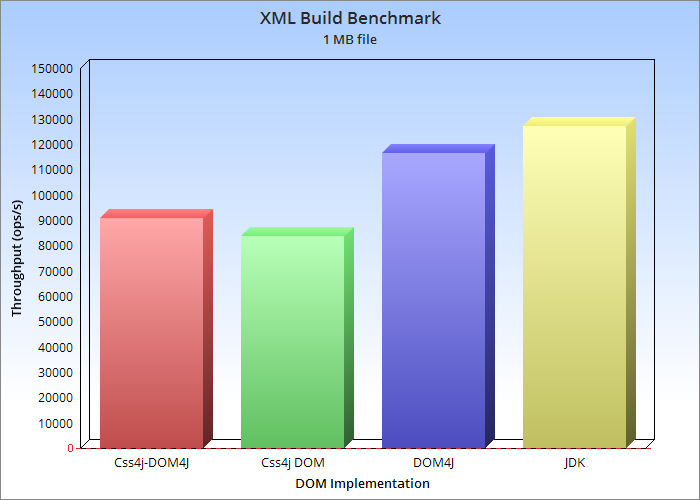
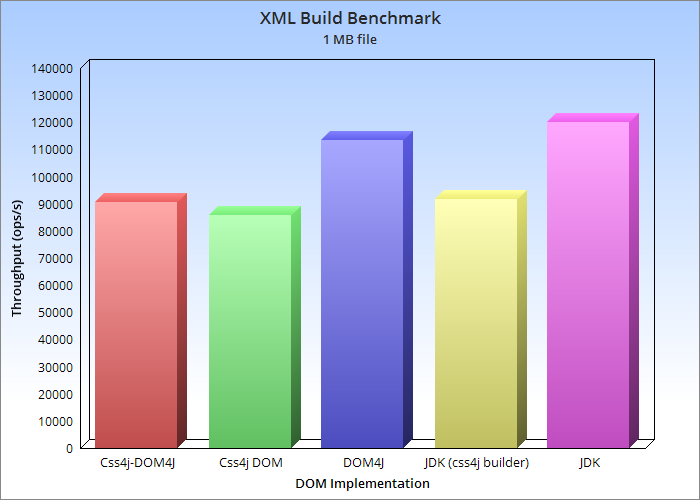
Update DOM benchmarks.

diff --git a/dom-mark.html b/dom-mark.html
@@ -31,13 +31,23 @@
 <h1>DOM benchmarks</h1>
 <div class="tema" id="overview">
 <h2>Overview</h2>
-<p>The DOM benchmarks measure how fast different DOM implementations are when building documents. The following software versions were used:</p>
+<p>The DOM benchmarks measure how fast different DOM implementations are when building and traversing documents:</p>
+<ul>
+<li><a href="https://github.com/css4j/css4j-dom4j">Css4j-DOM4J</a> module (which subclasses DOM4J).</li>
+<li><a href="https://css4j.github.io/api/3/io/sf/carte/doc/dom/package-summary.html">Css4j's native DOM</a>.</li>
+<li>Stand-alone <a href="https://dom4j.github.io/">DOM4J</a>.</li>
+<li>JDK's bundled <a href="https://docs.oracle.com/en/java/javase/11/docs/api/java.xml/org/w3c/dom/DOMImplementation.html">DOM implementation</a>.</li>
+</ul>
+<div class="subtema">
+<p>The following software versions were used:</p>
 <ul>
 <li>Java: <a href="https://adoptopenjdk.net/">AdoptOpenJDK</a>* 15.</li>
 <li>JMH: 1.26.</li>
 <li>css4j: 3.2 (pre-release).</li>
 <li>validator.nu htmlparser: <a href="https://search.maven.org/artifact/nu.validator/htmlparser">1.4.16</a>.</li>
+<li>dom4j: 2.1.3.</li>
 </ul>
+</div>
 <p>The computer has an Intel® Core™ i5-1035G7 CPU and 8GB of RAM.</p>
 <p class="note">(*) Note: one of the tested DOM implementations is the one that comes bundled with the JDK (identified as "JDK" in the graphics), and it has been observed
 that the version shipped with the Oracle JDK may be faster.</p>
@@ -53,7 +63,8 @@ that the version shipped with the Oracle JDK may be faster.</p>
 <tr><td>Css4j DOM</td><td class="number">328,637</td><td class="number">±1,920</td><td>ops/s</td></tr>
 <tr><td>JDK</td><td class="number">333,742</td><td class="number">±3,079</td><td>ops/s</td></tr>
 </table>
-<p>If one looks at the error figures, the three implementations are somewhat even in this test.</p>
+<p>If one looks at the error figures, the three implementations are somewhat even in this test. Plain DOM4J is not included in the benchmark,
+as it cannot be used with <code>HtmlDocumentBuilder</code>.</p>
 </div>
 <div class="tema" id="xml-small-mark">
 <h2>Build small XML documents</h2>
@@ -62,10 +73,11 @@ that the version shipped with the Oracle JDK may be faster.</p>
 <p>Numeric results (higher is better):</p>
 <table class="normaltbl">
 <tr><th>Implementation</th><th>Score</th><th>Error</th><th>Unit</th></tr>
-<tr><td>Css4j-DOM4J</td><td class="number">478,464</td><td class="number">±2,842</td><td>ops/s</td></tr>
-<tr><td>Css4j DOM</td><td class="number">453,009</td><td class="number">±5,765</td><td>ops/s</td></tr>
-<tr><td>DOM4J</td><td class="number">511,700</td><td class="number">±3,038</td><td>ops/s</td></tr>
-<tr><td>JDK</td><td class="number">512,558</td><td class="number">±4,976</td><td>ops/s</td></tr>
+<tr><td>Css4j-DOM4J</td><td class="number">505,418</td><td class="number">±20,569</td><td>ops/s</td></tr>
+<tr><td>Css4j DOM</td><td class="number">486,341</td><td class="number">±5,949</td><td>ops/s</td></tr>
+<tr><td>DOM4J</td><td class="number">547,620</td><td class="number">±12,901</td><td>ops/s</td></tr>
+<tr><td>JDK (XMLDocumentBuilder)</td><td class="number">530,703</td><td class="number">±7,089</td><td>ops/s</td></tr>
+<tr><td>JDK</td><td class="number">542,871</td><td class="number">±12,360</td><td>ops/s</td></tr>
 </table>
 </div>
 <div class="tema" id="xml-mark">
@@ -76,14 +88,122 @@ that the version shipped with the Oracle JDK may be faster.</p>
 <table class="normaltbl">
 <tr><th>Implementation</th><th>Score</th><th>Error</th><th>Unit</th></tr>
 <tr><td>Css4j-DOM4J</td><td class="number">90,796</td><td class="number">±1,193</td><td>ops/s</td></tr>
-<tr><td>Css4j DOM</td><td class="number">83,717</td><td class="number">±0,746</td><td>ops/s</td></tr>
-<tr><td>DOM4J</td><td class="number">116,575</td><td class="number">±0,682</td><td>ops/s</td></tr>
-<tr><td>JDK</td><td class="number">126,955</td><td class="number">±0,857</td><td>ops/s</td></tr>
+<tr><td>Css4j DOM</td><td class="number">85,990</td><td class="number">±0,764</td><td>ops/s</td></tr>
+<tr><td>DOM4J</td><td class="number">113,444</td><td class="number">±0,504</td><td>ops/s</td></tr>
+<tr><td>JDK (XMLDocumentBuilder)</td><td class="number">91,828</td><td class="number">±1,119</td><td>ops/s</td></tr>
+<tr><td>JDK</td><td class="number">120,095</td><td class="number">±0,846</td><td>ops/s</td></tr>
+</table>
+</div>
+<div class="tema" id="traverse-next">
+<h2>DOM traversal: <code>getFirstChild()/getNextSibling()</code></h2>
+<p>Count the nodes of an XML document, using a combination of <code><a href="https://docs.oracle.com/en/java/javase/11/docs/api/java.xml/org/w3c/dom/Node.html#getFirstChild()">getFirstChild()</a>/<a href="https://docs.oracle.com/en/java/javase/11/docs/api/java.xml/org/w3c/dom/Node.html#getNextSibling()">getNextSibling()</a></code> to traverse it.</p>
+<img src="benchmark/traversal-next.png" alt="DOM traversal benchmark 1" />
+<p>Numeric results (higher is better):</p>
+<table class="normaltbl">
+<tr><th>Implementation</th><th>Score</th><th>Error</th><th>Unit</th></tr>
+<tr><td>Css4j-DOM4J</td><td class="number">238,888</td><td class="number">±14,212</td><td>ops/s</td></tr>
+<tr><td>Css4j DOM</td><td class="number">3098,809</td><td class="number">±48,866</td><td>ops/s</td></tr>
+<tr><td>JDK</td><td class="number">6193,611</td><td class="number">±44,107</td><td>ops/s</td></tr>
+</table>
+<p><em>Note:</em> for unknown reasons, the usual procedure to build the JDK document with a <code>DocumentBuilderFactory</code> could not be used to initialize the document
+traversed in the benchmark, as that document is somehow left in an inconsistent state with no child nodes; this happened with the initialization code being executed in a
+<code>Scope.Benchmark</code> class and also when in a <code>static</code> initialization block. When that same code is executed in a JUnit test, the problem is not seen.</p>
+<p>Because of this reason the JDK DOM document was built with css4j's <a href="https://css4j.github.io/api/3/io/sf/carte/doc/dom/XMLDocumentBuilder.html"><code>XMLDocumentBuilder</code></a>,
+although that process is not part of the timed benchmark.</p>
+</div>
+<div class="tema" id="traverse-prev">
+<h2>DOM traversal: <code>getLastChild()/getPreviousSibling()</code></h2>
+<p>Count the nodes of an XML document, using a combination of <code><a href="https://docs.oracle.com/en/java/javase/11/docs/api/java.xml/org/w3c/dom/Node.html#getLastChild()">getLastChild()</a>/<a href="https://docs.oracle.com/en/java/javase/11/docs/api/java.xml/org/w3c/dom/Node.html#getPreviousSibling()">getPreviousSibling()</a></code> to traverse it.</p>
+<img src="benchmark/traversal-prev.png" alt="DOM traversal benchmark 2" />
+<p>Numeric results (higher is better):</p>
+<table class="normaltbl">
+<tr><th>Implementation</th><th>Score</th><th>Error</th><th>Unit</th></tr>
+<tr><td>Css4j-DOM4J</td><td class="number">208,244</td><td class="number">±48,552</td><td>ops/s</td></tr>
+<tr><td>Css4j DOM</td><td class="number">2951,919</td><td class="number">±241,858</td><td>ops/s</td></tr>
+<tr><td>JDK</td><td class="number">6717,898</td><td class="number">±92,711</td><td>ops/s</td></tr>
+</table>
+<p>The Css4j-DOM4J results are representative for DOM4J as well.</p>
+</div>
+<div class="tema" id="nodeiterator">
+<h2>DOM traversal: <code>NodeIterator</code></h2>
+<p>Count the elements of an XML document traversed by a <a href="https://docs.oracle.com/en/java/javase/11/docs/api/java.xml/org/w3c/dom/traversal/NodeIterator.html"><code>NodeIterator</code></a>.</p>
+<img src="benchmark/nodeiterator.png" alt="DOM node iterator" />
+<p>Numeric results (higher is better):</p>
+<table class="normaltbl">
+<tr><th>Implementation</th><th>Score</th><th>Error</th><th>Unit</th></tr>
+<tr><td>Css4j DOM</td><td class="number">2241,289</td><td class="number">±47,954</td><td>ops/s</td></tr>
+<tr><td>JDK</td><td class="number">4564,023</td><td class="number">±123,393</td><td>ops/s</td></tr>
+</table>
+<p>DOM4J is not included as it lacks a <code>NodeIterator</code>.</p>
+<p><em>Note:</em> sometimes the <code>NodeIterator</code> created by the JDK is in an inconsistent state, and fails with an exception like:</p>
+<pre class="code"># Warmup Iteration   1: <failure>
+
+java.lang.ArrayIndexOutOfBoundsException: Index 34 out of bounds for length 33
+        at java.base/java.util.ArrayList.add(ArrayList.java:455)
+        at java.base/java.util.ArrayList.add(ArrayList.java:467)
+        at java.xml/com.sun.org.apache.xerces.internal.dom.DocumentImpl.createNodeIterator(DocumentImpl.java:255)
+        at io.sf.carte.doc.style.css.mark.DOMTraverseMark.markNodeIteratorJdk(DOMTraverseMark.java:122)
+</pre>
+<p>But I have observed this only while benchmarking, and not in other cases.</p>
+</div>
+<div class="tema" id="treewalker">
+<h2>DOM traversal: <code>TreeWalker</code></h2>
+<p>Count the elements of an XML document traversed by a <a href="https://docs.oracle.com/en/java/javase/11/docs/api/java.xml/org/w3c/dom/traversal/TreeWalker.html"><code>TreeWalker</code></a>.</p>
+<img src="benchmark/treewalker.png" alt="DOM tree walker" />
+<p>Numeric results (higher is better):</p>
+<table class="normaltbl">
+<tr><th>Implementation</th><th>Score</th><th>Error</th><th>Unit</th></tr>
+<tr><td>Css4j DOM</td><td class="number">2229,978</td><td class="number">±44,438</td><td>ops/s</td></tr>
+<tr><td>JDK</td><td class="number">4662,251</td><td class="number">±95,975</td><td>ops/s</td></tr>
+</table>
+<p>DOM4J provides no <code>TreeWalker</code>.</p>
+</div>
+<div class="tema" id="element-iterator">
+<h2>DOM traversal: <code>elementIterator()</code></h2>
+<p>Traverse an XML document using native DOM's <a href="https://css4j.github.io/api/3/io/sf/carte/doc/dom/ParentNode.html#elementIterator()"><code>elementIterator()</code></a>
+and DOM4J's <a href="https://dom4j.github.io/javadoc/2.1.3/org/dom4j/Element.html#elementIterator--"><code>elementIterator()</code></a>.</p>
+<img src="benchmark/element-iterator.png" alt="DOM element iterator" />
+<p>Numeric results (higher is better):</p>
+<table class="normaltbl">
+<tr><th>Implementation</th><th>Score</th><th>Error</th><th>Unit</th></tr>
+<tr><td>Css4j DOM</td><td class="number">1973,655</td><td class="number">±13,820</td><td>ops/s</td></tr>
+<tr><td>JDK</td><td class="number">522,078</td><td class="number">±8,523</td><td>ops/s</td></tr>
+</table>
+<p>The JDK's DOM provides no element iterator.</p>
+</div>
+<div class="tema" id="elements-by-tagname">
+<h2>DOM traversal: <code>getElementsByTagName()</code></h2>
+<p>Traverse the list given by <code>getElementsByTagName()</code>. In the case of css4j's native DOM, there are two results: one iterating the
+<a href="https://dom.spec.whatwg.org/#interface-nodelist"><code>NodeList</code></a> by the <code>item()</code> method, and another via the iterator
+(the returned <code>NodeList</code> implements <a href="https://docs.oracle.com/javase/8/docs/api/java/lang/Iterable.html"><code>Iterable</code></a>).</p>
+<img src="benchmark/elements-by-tagname.png" alt="DOM elements by tag name" />
+<p>Numeric results (higher is better):</p>
+<table class="normaltbl">
+<tr><th>Implementation</th><th>Score</th><th>Error</th><th>Unit</th></tr>
+<tr><td>Css4j-DOM4J</td><td class="number">463,847</td><td class="number">±3,358</td><td>ops/s</td></tr>
+<tr><td>Css4j DOM</td><td class="number">2,153</td><td class="number">±0,087</td><td>ops/s</td></tr>
+<tr><td>Css4j DOM (iterator)</td><td class="number">1532,235</td><td class="number">±59,400</td><td>ops/s</td></tr>
+<tr><td>JDK</td><td class="number">2002,057</td><td class="number">±82,689</td><td>ops/s</td></tr>
+</table>
+<p><em>Note:</em> the iterator is documented as the recommended way to traverse the <a href="https://css4j.github.io/api/3/io/sf/carte/doc/dom/ElementList.html"><code>ElementList</code></a> in css4j since version 3.2. Css4j versions prior to 3.2 perform much better in this benchmark,
+but the implementation was switched to one that is more lightweight (and the iterator performance is good enough).</p>
+</div>
+<div class="tema" id="dom-change">
+<h2>DOM modification: <code>appendChild()/removeChild()</code></h2>
+<p>Modify the nodes of an XML document by appending elements with <a href="https://docs.oracle.com/en/java/javase/11/docs/api/java.xml/org/w3c/dom/Node.html#appendChild(org.w3c.dom.Node)"><code>appendChild()</code></a> and later removing them with
+<a href="https://docs.oracle.com/en/java/javase/11/docs/api/java.xml/org/w3c/dom/Node.html#removeChild(org.w3c.dom.Node)"><code>removeChild()</code></a>.</p>
+<img src="benchmark/dom-change.png" alt="dom change" />
+<p>Numeric results (higher is better):</p>
+<table class="normaltbl">
+<tr><th>Implementation</th><th>Score</th><th>Error</th><th>Unit</th></tr>
+<tr><td>Css4j-DOM4J</td><td class="number">115,780</td><td class="number">±1,609</td><td>ops/s</td></tr>
+<tr><td>Css4j DOM</td><td class="number">440,383</td><td class="number">±6,933</td><td>ops/s</td></tr>
+<tr><td>JDK</td><td class="number">791,273</td><td class="number">±8,898</td><td>ops/s</td></tr>
 </table>
 </div>
 <div class="tema" id="analysis">
 <h2>Analysis</h2>
-<p>DOM4J (both plain DOM4J and the CSS-enabled subclasses that CSS4J provide) is fast, but has an important scalability problem. If you use
+<p>Building a document with DOM4J (both plain DOM4J and the CSS-enabled subclasses that CSS4J provide) is fast, but has an important scalability problem. If you use
 instances of DOM4J simultaneously in the same JVM, contention happens even if no common resources are explicitly accessed. This is due to DOM4J using a <code>static</code> synchronized cache of <code>QName</code> objects,
 as shown by the benchmark profiler (e.g. <code>java -jar build/benchmarks.jar XMLBuildBenchmark -prof stack:lines=5;top=3;detailLine=true;period=1</code>):</p>
 <pre class="code">Secondary result "io.sf.carte.doc.style.css.mark.XMLBuildBenchmark.markBuildDOM4J: stack":
@@ -101,8 +221,9 @@ Stack profiler:
               org.dom4j.tree.NamespaceStack.pushQName
 </pre>
 <p>So its usage is not recommended for multi-core systems.</p>
-<p>DOM implementations that are CSS-enabled (like Css4j-DOM4j and Css4j's native DOM) are necessarily a bit slower than plain DOM, and Css4j's native DOM is the slowest of the
-measured implementations, which is not entirely surprising as it also has more features.</p>
+<p>Css4j's native DOM has more features than the other contenders but is slower than the JDK's DOM, otherwise shows reasonable speeds. The DOM implementation that comes bundled with the JDK is the fastest,
+and looks like a good choice for applications that do not require handling styles (or you could use the read-only DOM wrapper with it, if that fits your needs).
+Finally, DOM4J is lagging behind in performance for anything other than document build-up.</p>
 </div>
 </div>
 <div class="footnote">

diff --git a/usage-c.css b/usage-c.css
@@ -1,1 +1,1 @@
-code[class*="language-"],pre[class*="language-"]{color:#ccc;background:0;font-family:Consolas,Monaco,'Andale Mono','Ubuntu Mono',monospace;font-size:1em;text-align:left;white-space:pre;word-spacing:normal;word-break:normal;word-wrap:normal;line-height:1.5;-moz-tab-size:4;-o-tab-size:4;tab-size:4;-webkit-hyphens:none;-moz-hyphens:none;-ms-hyphens:none;hyphens:none}pre[class*="language-"]{padding:1em;margin:.5em 0;overflow:auto}:not(pre)>code[class*="language-"],pre[class*="language-"]{background:#2d2d2d}:not(pre)>code[class*="language-"]{padding:.1em;border-radius:.3em;white-space:normal}.token.comment,.token.block-comment,.token.prolog,.token.doctype,.token.cdata{color:#999}.token.punctuation{color:#ccc}.token.tag,.token.attr-name,.token.namespace,.token.deleted{color:#e2777a}.token.function-name{color:#6196cc}.token.boolean,.token.number,.token.function{color:#f08d49}.token.property,.token.class-name,.token.constant,.token.symbol{color:#f8c555}.token.selector,.token.important,.token.atrule,.token.keyword,.token.builtin{color:#cc99cd}.token.string,.token.char,.token.attr-value,.token.regex,.token.variable{color:#7ec699}.token.operator,.token.entity,.token.url{color:#67cdcc}.token.important,.token.bold{font-weight:bold}.token.italic{font-style:italic}.token.entity{cursor:help}.token.inserted{color:green}body{font-family:Verdana,Arial,Helvetica;margin:0 0 .2em 0}img{border-style:none}.layout{margin-top:0;margin-right:auto;padding:0;border-width:0;border-style:none;background:url(imag/top_b.png) repeat-x}#mylinkhome{display:block;background:url(imag/minilogo.png) no-repeat 3px 2px;height:39px}#linkhome{display:block;background:url(imag/minilogo.png) no-repeat 3px 2px;height:39px}#linkhome span,#mylinkhome span{display:none}.container{padding:0;margin-top:0}body .container{margin-left:170px}.menu{width:133px;float:left;margin-left:2px;background-color:#ddeae4}body .menu{padding-left:6px;margin-left:-170px}.menulist{list-style-type:none;padding:0}.menulist,.menulist li{margin:0}.menulist li{width:inherit;height:24px;font-size:12pt}.menulist a,.menulist div{height:24px;padding:1px 0 0 .2ex}li.menulvl2 a,li.menulvl2 div{height:20px;padding:0 0 0 .7ex}.menulist a{display:block;background:url(imag/mnubg_a.png) no-repeat}li.menulvl2 a{display:block;background:url(imag/mnubg2_a.png) no-repeat}li.menulvl2 a:hover{text-align:right;background:url(imag/mnubg2_b.png) no-repeat}.menulist a:hover{text-align:right;padding-right:16px;background:url(imag/mnubg_b.png) no-repeat}.menulist div{text-align:right;padding-right:16px;background:url(imag/mnubg_b.png) no-repeat}li.menulvl2 div{text-align:right;padding-right:20px;background:url(imag/mnubg_b.png) no-repeat}.beforemain{display:none}.main{float:left;width:90%;font-family:Liberation Sans,Helvetica,Arial,sans-serif}.textheader span{float:right;padding:.2em 1.2ex 1.2em 1.2ex;font-weight:lighter;color:#727272;text-align:left;letter-spacing:.06em;background:url(imag/hdrbg.png) no-repeat 1px .1em}.cos{font-family:Verdana,Liberation Sans,Arial,Helvetica,sans-serif;font-size:small;text-align:justify;border-top:2px dotted #b29e7c;margin:1.9em 1ex 1em 100px}.cos p{line-height:1.4em}html>body .cos{margin-left:.2ex}.cos li{line-height:1.5em;margin:.5em 1.5ex .6em 0}code{font-size:1.3em}pre{font-size:1.4em}pre.code{background-color:#e7e4de}div.tema{margin:2em 0 3.3em 0}div.subtema{margin:1em 0 2em 0}div.seccion{margin:2em 0 3em 0}.seccion ul{margin:1.4em 0 1.8em 0}.seccion li{list-style-type:square}img.diagram{margin:1em 5%}.urlist li{list-style-type:square}.normaltbl td,.normaltbl th{padding:.4em 1em .5em 1.1em}.normaltbl th{white-space:nowrap;text-align:center}.normaltbl td.number{text-align:right}.normaltbl th:first-child{text-align:left}.note,.legalremind{font-size:smaller;font-style:italic}.clausulas li{margin:1em .5em 2em .5em;line-height:1.3em}.footnote{margin-top:4em;margin-bottom:2em;text-align:center;font-size:.8em;font-style:italic;padding:.3em 0 .5em 0;border-top:2px solid #171719}.smallnote{font-style:italic;font-size:smaller}.smpreface{font-style:italic;font-size:smaller;padding:.3em 3em .4em 1.5em;text-align:justify}.explist li{margin:.2em 0 .3em 0;line-height:1.3em}.illustration{margin:.6em 2ex 1em 0;float:left}.imgcredit{font-style:italic;font-size:smaller;display:block}@media only screen and (max-width:640px){body .container{margin-left:0}.menu{width:16ex;float:left}body .menu{padding-left:.6ex;margin:1px 1px}.menulist li{height:1.4em;font-size:1.1em}.menulist a,.menulist div{height:1.4em;padding:0 0 0 .2ex}.menulist a{background:linear-gradient(to right,#95a08c 0,rgb(255 255 255 / 0) 100%)}.menulist a:hover{padding-right:1ex;background:linear-gradient(to right,#32491f 0,rgb(244 246 241 / 0) 100%)}.menulist div{padding-right:1ex;background:linear-gradient(to right,#32491f 0,rgb(244 246 241 / 0) 100%)}.main{width:99%}.cos{margin-right:.4ex}html>body .cos{margin-left:.5ex}}body{background-color:#f4f4f3;color:#2d261a}#hdr01{display:none}a:link{text-decoration:none;color:#045dca;cursor:pointer}a:visited{text-decoration:none;color:#1f42ab}a:active{text-decoration:underline;color:#c10300}a:hover{text-decoration:underline;color:#8e3a2d}.menulist div{color:#fdffd3}.menulist a{color:#fffef0}.menulist a:hover{color:#fdffd3}.footnote{border-top:0;padding:.3em 0 .5em 0;background:url(imag/footerbg.png) repeat-x}.footnote a:link,.footnote a:visited{text-decoration:underline}.obsrv{font-size:smaller}table .yesno{text-align:center}.normaltbl tr:nth-child(even),tr.evenrow{background-color:#f6f5e5}.normaltbl tr:nth-child(odd),tr.oddrow{background-color:#eeebd8}table.normaltbl tr:first-child,tr.hdrow{background-color:#e9e9c5}.author{font-weight:bold}.relinfo{font-style:italic}pre.code{padding:1em;background-color:#32312e}.codeitem{font-family:monospace;font-size:larger}.itemtitle{font-size:1.4em}.index{margin:2.6em 0 5em 0;font-size:1.2em}ol.nestedidx ol{counter-reset:item}ol>li{counter-increment:item}ol.nestedidx ol>li{display:block}ol.nestedidx ol>li:before{content:counters(item,".") ". ";margin-left:-18pt}#spectbl td,#spectbl th{padding:.4em .3em .5em .4em}#spectbl th{white-space:nowrap}
+code[class*="language-"],pre[class*="language-"]{color:#ccc;background:0;font-family:Consolas,Monaco,'Andale Mono','Ubuntu Mono',monospace;font-size:1em;text-align:left;white-space:pre;word-spacing:normal;word-break:normal;word-wrap:normal;line-height:1.5;-moz-tab-size:4;-o-tab-size:4;tab-size:4;-webkit-hyphens:none;-moz-hyphens:none;-ms-hyphens:none;hyphens:none}pre[class*="language-"]{padding:1em;margin:.5em 0;overflow:auto}:not(pre)>code[class*="language-"],pre[class*="language-"]{background:#2d2d2d}:not(pre)>code[class*="language-"]{padding:.1em;border-radius:.3em;white-space:normal}.token.comment,.token.block-comment,.token.prolog,.token.doctype,.token.cdata{color:#999}.token.punctuation{color:#ccc}.token.tag,.token.attr-name,.token.namespace,.token.deleted{color:#e2777a}.token.function-name{color:#6196cc}.token.boolean,.token.number,.token.function{color:#f08d49}.token.property,.token.class-name,.token.constant,.token.symbol{color:#f8c555}.token.selector,.token.important,.token.atrule,.token.keyword,.token.builtin{color:#cc99cd}.token.string,.token.char,.token.attr-value,.token.regex,.token.variable{color:#7ec699}.token.operator,.token.entity,.token.url{color:#67cdcc}.token.important,.token.bold{font-weight:bold}.token.italic{font-style:italic}.token.entity{cursor:help}.token.inserted{color:green}body{font-family:Verdana,Arial,Helvetica;margin:0 0 .2em 0}img{border-style:none}.layout{margin-top:0;margin-right:auto;padding:0;border-width:0;border-style:none;background:url(imag/top_b.png) repeat-x}#mylinkhome{display:block;background:url(imag/minilogo.png) no-repeat 3px 2px;height:39px}#linkhome{display:block;background:url(imag/minilogo.png) no-repeat 3px 2px;height:39px}#linkhome span,#mylinkhome span{display:none}.container{padding:0;margin-top:0}body .container{margin-left:170px}.menu{width:133px;float:left;margin-left:2px;background-color:#ddeae4}body .menu{padding-left:6px;margin-left:-170px}.menulist{list-style-type:none;padding:0}.menulist,.menulist li{margin:0}.menulist li{width:inherit;height:24px;font-size:12pt}.menulist a,.menulist div{height:24px;padding:1px 0 0 .2ex}li.menulvl2 a,li.menulvl2 div{height:20px;padding:0 0 0 .7ex}.menulist a{display:block;background:url(imag/mnubg_a.png) no-repeat}li.menulvl2 a{display:block;background:url(imag/mnubg2_a.png) no-repeat}li.menulvl2 a:hover{text-align:right;background:url(imag/mnubg2_b.png) no-repeat}.menulist a:hover{text-align:right;padding-right:16px;background:url(imag/mnubg_b.png) no-repeat}.menulist div{text-align:right;padding-right:16px;background:url(imag/mnubg_b.png) no-repeat}li.menulvl2 div{text-align:right;padding-right:20px;background:url(imag/mnubg_b.png) no-repeat}.beforemain{display:none}.main{float:left;width:90%;font-family:Liberation Sans,Helvetica,Arial,sans-serif}.textheader span{float:right;padding:.2em 1.2ex 1.2em 1.2ex;font-weight:lighter;color:#727272;text-align:left;letter-spacing:.06em;background:url(imag/hdrbg.png) no-repeat 1px .1em}.cos{font-family:Verdana,Liberation Sans,Arial,Helvetica,sans-serif;font-size:small;text-align:justify;border-top:2px dotted #b29e7c;margin:1.9em 1ex 1em 100px}.cos p{line-height:1.4em}html>body .cos{margin-left:.2ex}.cos li{line-height:1.5em;margin:.5em 1.5ex .6em 0}code{font-size:1.3em}pre{font-size:1.4em}pre.code{background-color:#e7e4de}div.tema{margin:2em 0 3.3em 0}div.subtema{margin:1.8em 0}div.seccion{margin:2em 0 3em 0}.seccion ul{margin:1.4em 0 1.8em 0}.seccion li{list-style-type:square}img.diagram{margin:1em 5%}.urlist li{list-style-type:square}.normaltbl td,.normaltbl th{padding:.4em 1em .5em 1.1em}.normaltbl th{white-space:nowrap;text-align:center}.normaltbl td.number{text-align:right}.normaltbl th:first-child{text-align:left}.note,.legalremind{font-size:smaller;font-style:italic}.clausulas li{margin:1em .5em 2em .5em;line-height:1.3em}.footnote{margin-top:4em;margin-bottom:2em;text-align:center;font-size:.8em;font-style:italic;padding:.3em 0 .5em 0;border-top:2px solid #171719}.smallnote{font-style:italic;font-size:smaller}.smpreface{font-style:italic;font-size:smaller;padding:.3em 3em .4em 1.5em;text-align:justify}.explist li{margin:.2em 0 .3em 0;line-height:1.3em}.illustration{margin:.6em 2ex 1em 0;float:left}.imgcredit{font-style:italic;font-size:smaller;display:block}@media only screen and (max-width:640px){body .container{margin-left:0}.menu{width:16ex;float:left}body .menu{padding-left:.6ex;margin:1px 1px}.menulist li{height:1.4em;font-size:1.1em}.menulist a,.menulist div{height:1.4em;padding:0 0 0 .2ex}.menulist a{background:linear-gradient(to right,#95a08c 0,rgb(255 255 255 / 0) 100%)}.menulist a:hover{padding-right:1ex;background:linear-gradient(to right,#32491f 0,rgb(244 246 241 / 0) 100%)}.menulist div{padding-right:1ex;background:linear-gradient(to right,#32491f 0,rgb(244 246 241 / 0) 100%)}.main{width:99%}.cos{margin-right:.4ex}html>body .cos{margin-left:.5ex}}body{background-color:#f4f4f3;color:#2d261a}#hdr01{display:none}a:link{text-decoration:none;color:#045dca;cursor:pointer}a:visited{text-decoration:none;color:#1f42ab}a:active{text-decoration:underline;color:#c10300}a:hover{text-decoration:underline;color:#8e3a2d}.menulist div{color:#fdffd3}.menulist a{color:#fffef0}.menulist a:hover{color:#fdffd3}.footnote{border-top:0;padding:.3em 0 .5em 0;background:url(imag/footerbg.png) repeat-x}.footnote a:link,.footnote a:visited{text-decoration:underline}.obsrv{font-size:smaller}table .yesno{text-align:center}.normaltbl tr:nth-child(even),tr.evenrow{background-color:#f6f5e5}.normaltbl tr:nth-child(odd),tr.oddrow{background-color:#eeebd8}table.normaltbl tr:first-child,tr.hdrow{background-color:#e9e9c5}.author{font-weight:bold}.relinfo{font-style:italic}pre.code{padding:1em;background-color:#32312e}.codeitem{font-family:monospace;font-size:larger}.itemtitle{font-size:1.4em}.index{margin:2.6em 0 5em 0;font-size:1.2em}ol.nestedidx ol{counter-reset:item}ol>li{counter-increment:item}ol.nestedidx ol>li{display:block}ol.nestedidx ol>li:before{content:counters(item,".") ". ";margin-left:-18pt}#spectbl td,#spectbl th{padding:.4em .3em .5em .4em}#spectbl th{white-space:nowrap}

diff --git a/faq-b.css b/faq-b.css
@@ -1,1 +1,1 @@
-body{font-family:Verdana,Arial,Helvetica;margin:0 0 .2em 0}img{border-style:none}.layout{margin-top:0;margin-right:auto;padding:0;border-width:0;border-style:none;background:url(imag/top_b.png) repeat-x}#mylinkhome{display:block;background:url(imag/minilogo.png) no-repeat 3px 2px;height:39px}#linkhome{display:block;background:url(imag/minilogo.png) no-repeat 3px 2px;height:39px}#linkhome span,#mylinkhome span{display:none}.container{padding:0;margin-top:0}body .container{margin-left:170px}.menu{width:133px;float:left;margin-left:2px;background-color:#ddeae4}body .menu{padding-left:6px;margin-left:-170px}.menulist{list-style-type:none;padding:0}.menulist,.menulist li{margin:0}.menulist li{width:inherit;height:24px;font-size:12pt}.menulist a,.menulist div{height:24px;padding:1px 0 0 .2ex}li.menulvl2 a,li.menulvl2 div{height:20px;padding:0 0 0 .7ex}.menulist a{display:block;background:url(imag/mnubg_a.png) no-repeat}li.menulvl2 a{display:block;background:url(imag/mnubg2_a.png) no-repeat}li.menulvl2 a:hover{text-align:right;background:url(imag/mnubg2_b.png) no-repeat}.menulist a:hover{text-align:right;padding-right:16px;background:url(imag/mnubg_b.png) no-repeat}.menulist div{text-align:right;padding-right:16px;background:url(imag/mnubg_b.png) no-repeat}li.menulvl2 div{text-align:right;padding-right:20px;background:url(imag/mnubg_b.png) no-repeat}.beforemain{display:none}.main{float:left;width:90%;font-family:Liberation Sans,Helvetica,Arial,sans-serif}.textheader span{float:right;padding:.2em 1.2ex 1.2em 1.2ex;font-weight:lighter;color:#727272;text-align:left;letter-spacing:.06em;background:url(imag/hdrbg.png) no-repeat 1px .1em}.cos{font-family:Verdana,Liberation Sans,Arial,Helvetica,sans-serif;font-size:small;text-align:justify;border-top:2px dotted #b29e7c;margin:1.9em 1ex 1em 100px}.cos p{line-height:1.4em}html>body .cos{margin-left:.2ex}.cos li{line-height:1.5em;margin:.5em 1.5ex .6em 0}code{font-size:1.3em}pre{font-size:1.4em}pre.code{background-color:#e7e4de}div.tema{margin:2em 0 3.3em 0}div.subtema{margin:1em 0 2em 0}div.seccion{margin:2em 0 3em 0}.seccion ul{margin:1.4em 0 1.8em 0}.seccion li{list-style-type:square}img.diagram{margin:1em 5%}.urlist li{list-style-type:square}.normaltbl td,.normaltbl th{padding:.4em 1em .5em 1.1em}.normaltbl th{white-space:nowrap;text-align:center}.normaltbl td.number{text-align:right}.normaltbl th:first-child{text-align:left}.note,.legalremind{font-size:smaller;font-style:italic}.clausulas li{margin:1em .5em 2em .5em;line-height:1.3em}.footnote{margin-top:4em;margin-bottom:2em;text-align:center;font-size:.8em;font-style:italic;padding:.3em 0 .5em 0;border-top:2px solid #171719}.smallnote{font-style:italic;font-size:smaller}.smpreface{font-style:italic;font-size:smaller;padding:.3em 3em .4em 1.5em;text-align:justify}.explist li{margin:.2em 0 .3em 0;line-height:1.3em}.illustration{margin:.6em 2ex 1em 0;float:left}.imgcredit{font-style:italic;font-size:smaller;display:block}@media only screen and (max-width:640px){body .container{margin-left:0}.menu{width:16ex;float:left}body .menu{padding-left:.6ex;margin:1px 1px}.menulist li{height:1.4em;font-size:1.1em}.menulist a,.menulist div{height:1.4em;padding:0 0 0 .2ex}.menulist a{background:linear-gradient(to right,#95a08c 0,rgb(255 255 255 / 0) 100%)}.menulist a:hover{padding-right:1ex;background:linear-gradient(to right,#32491f 0,rgb(244 246 241 / 0) 100%)}.menulist div{padding-right:1ex;background:linear-gradient(to right,#32491f 0,rgb(244 246 241 / 0) 100%)}.main{width:99%}.cos{margin-right:.4ex}html>body .cos{margin-left:.5ex}}body{background-color:#f4f4f3;color:#2d261a}#hdr01{display:none}a:link{text-decoration:none;color:#045dca;cursor:pointer}a:visited{text-decoration:none;color:#1f42ab}a:active{text-decoration:underline;color:#c10300}a:hover{text-decoration:underline;color:#8e3a2d}.menulist div{color:#fdffd3}.menulist a{color:#fffef0}.menulist a:hover{color:#fdffd3}.footnote{border-top:0;padding:.3em 0 .5em 0;background:url(imag/footerbg.png) repeat-x}.footnote a:link,.footnote a:visited{text-decoration:underline}.obsrv{font-size:smaller}table .yesno{text-align:center}.normaltbl tr:nth-child(even),tr.evenrow{background-color:#f6f5e5}.normaltbl tr:nth-child(odd),tr.oddrow{background-color:#eeebd8}table.normaltbl tr:first-child,tr.hdrow{background-color:#e9e9c5}div.faqlist h4{color:#3d3f62}
+body{font-family:Verdana,Arial,Helvetica;margin:0 0 .2em 0}img{border-style:none}.layout{margin-top:0;margin-right:auto;padding:0;border-width:0;border-style:none;background:url(imag/top_b.png) repeat-x}#mylinkhome{display:block;background:url(imag/minilogo.png) no-repeat 3px 2px;height:39px}#linkhome{display:block;background:url(imag/minilogo.png) no-repeat 3px 2px;height:39px}#linkhome span,#mylinkhome span{display:none}.container{padding:0;margin-top:0}body .container{margin-left:170px}.menu{width:133px;float:left;margin-left:2px;background-color:#ddeae4}body .menu{padding-left:6px;margin-left:-170px}.menulist{list-style-type:none;padding:0}.menulist,.menulist li{margin:0}.menulist li{width:inherit;height:24px;font-size:12pt}.menulist a,.menulist div{height:24px;padding:1px 0 0 .2ex}li.menulvl2 a,li.menulvl2 div{height:20px;padding:0 0 0 .7ex}.menulist a{display:block;background:url(imag/mnubg_a.png) no-repeat}li.menulvl2 a{display:block;background:url(imag/mnubg2_a.png) no-repeat}li.menulvl2 a:hover{text-align:right;background:url(imag/mnubg2_b.png) no-repeat}.menulist a:hover{text-align:right;padding-right:16px;background:url(imag/mnubg_b.png) no-repeat}.menulist div{text-align:right;padding-right:16px;background:url(imag/mnubg_b.png) no-repeat}li.menulvl2 div{text-align:right;padding-right:20px;background:url(imag/mnubg_b.png) no-repeat}.beforemain{display:none}.main{float:left;width:90%;font-family:Liberation Sans,Helvetica,Arial,sans-serif}.textheader span{float:right;padding:.2em 1.2ex 1.2em 1.2ex;font-weight:lighter;color:#727272;text-align:left;letter-spacing:.06em;background:url(imag/hdrbg.png) no-repeat 1px .1em}.cos{font-family:Verdana,Liberation Sans,Arial,Helvetica,sans-serif;font-size:small;text-align:justify;border-top:2px dotted #b29e7c;margin:1.9em 1ex 1em 100px}.cos p{line-height:1.4em}html>body .cos{margin-left:.2ex}.cos li{line-height:1.5em;margin:.5em 1.5ex .6em 0}code{font-size:1.3em}pre{font-size:1.4em}pre.code{background-color:#e7e4de}div.tema{margin:2em 0 3.3em 0}div.subtema{margin:1.8em 0}div.seccion{margin:2em 0 3em 0}.seccion ul{margin:1.4em 0 1.8em 0}.seccion li{list-style-type:square}img.diagram{margin:1em 5%}.urlist li{list-style-type:square}.normaltbl td,.normaltbl th{padding:.4em 1em .5em 1.1em}.normaltbl th{white-space:nowrap;text-align:center}.normaltbl td.number{text-align:right}.normaltbl th:first-child{text-align:left}.note,.legalremind{font-size:smaller;font-style:italic}.clausulas li{margin:1em .5em 2em .5em;line-height:1.3em}.footnote{margin-top:4em;margin-bottom:2em;text-align:center;font-size:.8em;font-style:italic;padding:.3em 0 .5em 0;border-top:2px solid #171719}.smallnote{font-style:italic;font-size:smaller}.smpreface{font-style:italic;font-size:smaller;padding:.3em 3em .4em 1.5em;text-align:justify}.explist li{margin:.2em 0 .3em 0;line-height:1.3em}.illustration{margin:.6em 2ex 1em 0;float:left}.imgcredit{font-style:italic;font-size:smaller;display:block}@media only screen and (max-width:640px){body .container{margin-left:0}.menu{width:16ex;float:left}body .menu{padding-left:.6ex;margin:1px 1px}.menulist li{height:1.4em;font-size:1.1em}.menulist a,.menulist div{height:1.4em;padding:0 0 0 .2ex}.menulist a{background:linear-gradient(to right,#95a08c 0,rgb(255 255 255 / 0) 100%)}.menulist a:hover{padding-right:1ex;background:linear-gradient(to right,#32491f 0,rgb(244 246 241 / 0) 100%)}.menulist div{padding-right:1ex;background:linear-gradient(to right,#32491f 0,rgb(244 246 241 / 0) 100%)}.main{width:99%}.cos{margin-right:.4ex}html>body .cos{margin-left:.5ex}}body{background-color:#f4f4f3;color:#2d261a}#hdr01{display:none}a:link{text-decoration:none;color:#045dca;cursor:pointer}a:visited{text-decoration:none;color:#1f42ab}a:active{text-decoration:underline;color:#c10300}a:hover{text-decoration:underline;color:#8e3a2d}.menulist div{color:#fdffd3}.menulist a{color:#fffef0}.menulist a:hover{color:#fdffd3}.footnote{border-top:0;padding:.3em 0 .5em 0;background:url(imag/footerbg.png) repeat-x}.footnote a:link,.footnote a:visited{text-decoration:underline}.obsrv{font-size:smaller}table .yesno{text-align:center}.normaltbl tr:nth-child(even),tr.evenrow{background-color:#f6f5e5}.normaltbl tr:nth-child(odd),tr.oddrow{background-color:#eeebd8}table.normaltbl tr:first-child,tr.hdrow{background-color:#e9e9c5}div.faqlist h4{color:#3d3f62}

diff --git a/basic-b.css b/basic-b.css
@@ -1,1 +1,1 @@
-body{font-family:Verdana,Arial,Helvetica;margin:0 0 .2em 0}img{border-style:none}.layout{margin-top:0;margin-right:auto;padding:0;border-width:0;border-style:none;background:url(imag/top_b.png) repeat-x}#mylinkhome{display:block;background:url(imag/minilogo.png) no-repeat 3px 2px;height:39px}#linkhome{display:block;background:url(imag/minilogo.png) no-repeat 3px 2px;height:39px}#linkhome span,#mylinkhome span{display:none}.container{padding:0;margin-top:0}body .container{margin-left:170px}.menu{width:133px;float:left;margin-left:2px;background-color:#ddeae4}body .menu{padding-left:6px;margin-left:-170px}.menulist{list-style-type:none;padding:0}.menulist,.menulist li{margin:0}.menulist li{width:inherit;height:24px;font-size:12pt}.menulist a,.menulist div{height:24px;padding:1px 0 0 .2ex}li.menulvl2 a,li.menulvl2 div{height:20px;padding:0 0 0 .7ex}.menulist a{display:block;background:url(imag/mnubg_a.png) no-repeat}li.menulvl2 a{display:block;background:url(imag/mnubg2_a.png) no-repeat}li.menulvl2 a:hover{text-align:right;background:url(imag/mnubg2_b.png) no-repeat}.menulist a:hover{text-align:right;padding-right:16px;background:url(imag/mnubg_b.png) no-repeat}.menulist div{text-align:right;padding-right:16px;background:url(imag/mnubg_b.png) no-repeat}li.menulvl2 div{text-align:right;padding-right:20px;background:url(imag/mnubg_b.png) no-repeat}.beforemain{display:none}.main{float:left;width:90%;font-family:Liberation Sans,Helvetica,Arial,sans-serif}.textheader span{float:right;padding:.2em 1.2ex 1.2em 1.2ex;font-weight:lighter;color:#727272;text-align:left;letter-spacing:.06em;background:url(imag/hdrbg.png) no-repeat 1px .1em}.cos{font-family:Verdana,Liberation Sans,Arial,Helvetica,sans-serif;font-size:small;text-align:justify;border-top:2px dotted #b29e7c;margin:1.9em 1ex 1em 100px}.cos p{line-height:1.4em}html>body .cos{margin-left:.2ex}.cos li{line-height:1.5em;margin:.5em 1.5ex .6em 0}code{font-size:1.3em}pre{font-size:1.4em}pre.code{background-color:#e7e4de}div.tema{margin:2em 0 3.3em 0}div.subtema{margin:1em 0 2em 0}div.seccion{margin:2em 0 3em 0}.seccion ul{margin:1.4em 0 1.8em 0}.seccion li{list-style-type:square}img.diagram{margin:1em 5%}.urlist li{list-style-type:square}.normaltbl td,.normaltbl th{padding:.4em 1em .5em 1.1em}.normaltbl th{white-space:nowrap;text-align:center}.normaltbl td.number{text-align:right}.normaltbl th:first-child{text-align:left}.note,.legalremind{font-size:smaller;font-style:italic}.clausulas li{margin:1em .5em 2em .5em;line-height:1.3em}.footnote{margin-top:4em;margin-bottom:2em;text-align:center;font-size:.8em;font-style:italic;padding:.3em 0 .5em 0;border-top:2px solid #171719}.smallnote{font-style:italic;font-size:smaller}.smpreface{font-style:italic;font-size:smaller;padding:.3em 3em .4em 1.5em;text-align:justify}.explist li{margin:.2em 0 .3em 0;line-height:1.3em}.illustration{margin:.6em 2ex 1em 0;float:left}.imgcredit{font-style:italic;font-size:smaller;display:block}@media only screen and (max-width:640px){body .container{margin-left:0}.menu{width:16ex;float:left}body .menu{padding-left:.6ex;margin:1px 1px}.menulist li{height:1.4em;font-size:1.1em}.menulist a,.menulist div{height:1.4em;padding:0 0 0 .2ex}.menulist a{background:linear-gradient(to right,#95a08c 0,rgb(255 255 255 / 0) 100%)}.menulist a:hover{padding-right:1ex;background:linear-gradient(to right,#32491f 0,rgb(244 246 241 / 0) 100%)}.menulist div{padding-right:1ex;background:linear-gradient(to right,#32491f 0,rgb(244 246 241 / 0) 100%)}.main{width:99%}.cos{margin-right:.4ex}html>body .cos{margin-left:.5ex}}body{background-color:#f4f4f3;color:#2d261a}#hdr01{display:none}a:link{text-decoration:none;color:#045dca;cursor:pointer}a:visited{text-decoration:none;color:#1f42ab}a:active{text-decoration:underline;color:#c10300}a:hover{text-decoration:underline;color:#8e3a2d}.menulist div{color:#fdffd3}.menulist a{color:#fffef0}.menulist a:hover{color:#fdffd3}.footnote{border-top:0;padding:.3em 0 .5em 0;background:url(imag/footerbg.png) repeat-x}.footnote a:link,.footnote a:visited{text-decoration:underline}.obsrv{font-size:smaller}table .yesno{text-align:center}.normaltbl tr:nth-child(even),tr.evenrow{background-color:#f6f5e5}.normaltbl tr:nth-child(odd),tr.oddrow{background-color:#eeebd8}table.normaltbl tr:first-child,tr.hdrow{background-color:#e9e9c5}
+body{font-family:Verdana,Arial,Helvetica;margin:0 0 .2em 0}img{border-style:none}.layout{margin-top:0;margin-right:auto;padding:0;border-width:0;border-style:none;background:url(imag/top_b.png) repeat-x}#mylinkhome{display:block;background:url(imag/minilogo.png) no-repeat 3px 2px;height:39px}#linkhome{display:block;background:url(imag/minilogo.png) no-repeat 3px 2px;height:39px}#linkhome span,#mylinkhome span{display:none}.container{padding:0;margin-top:0}body .container{margin-left:170px}.menu{width:133px;float:left;margin-left:2px;background-color:#ddeae4}body .menu{padding-left:6px;margin-left:-170px}.menulist{list-style-type:none;padding:0}.menulist,.menulist li{margin:0}.menulist li{width:inherit;height:24px;font-size:12pt}.menulist a,.menulist div{height:24px;padding:1px 0 0 .2ex}li.menulvl2 a,li.menulvl2 div{height:20px;padding:0 0 0 .7ex}.menulist a{display:block;background:url(imag/mnubg_a.png) no-repeat}li.menulvl2 a{display:block;background:url(imag/mnubg2_a.png) no-repeat}li.menulvl2 a:hover{text-align:right;background:url(imag/mnubg2_b.png) no-repeat}.menulist a:hover{text-align:right;padding-right:16px;background:url(imag/mnubg_b.png) no-repeat}.menulist div{text-align:right;padding-right:16px;background:url(imag/mnubg_b.png) no-repeat}li.menulvl2 div{text-align:right;padding-right:20px;background:url(imag/mnubg_b.png) no-repeat}.beforemain{display:none}.main{float:left;width:90%;font-family:Liberation Sans,Helvetica,Arial,sans-serif}.textheader span{float:right;padding:.2em 1.2ex 1.2em 1.2ex;font-weight:lighter;color:#727272;text-align:left;letter-spacing:.06em;background:url(imag/hdrbg.png) no-repeat 1px .1em}.cos{font-family:Verdana,Liberation Sans,Arial,Helvetica,sans-serif;font-size:small;text-align:justify;border-top:2px dotted #b29e7c;margin:1.9em 1ex 1em 100px}.cos p{line-height:1.4em}html>body .cos{margin-left:.2ex}.cos li{line-height:1.5em;margin:.5em 1.5ex .6em 0}code{font-size:1.3em}pre{font-size:1.4em}pre.code{background-color:#e7e4de}div.tema{margin:2em 0 3.3em 0}div.subtema{margin:1.8em 0}div.seccion{margin:2em 0 3em 0}.seccion ul{margin:1.4em 0 1.8em 0}.seccion li{list-style-type:square}img.diagram{margin:1em 5%}.urlist li{list-style-type:square}.normaltbl td,.normaltbl th{padding:.4em 1em .5em 1.1em}.normaltbl th{white-space:nowrap;text-align:center}.normaltbl td.number{text-align:right}.normaltbl th:first-child{text-align:left}.note,.legalremind{font-size:smaller;font-style:italic}.clausulas li{margin:1em .5em 2em .5em;line-height:1.3em}.footnote{margin-top:4em;margin-bottom:2em;text-align:center;font-size:.8em;font-style:italic;padding:.3em 0 .5em 0;border-top:2px solid #171719}.smallnote{font-style:italic;font-size:smaller}.smpreface{font-style:italic;font-size:smaller;padding:.3em 3em .4em 1.5em;text-align:justify}.explist li{margin:.2em 0 .3em 0;line-height:1.3em}.illustration{margin:.6em 2ex 1em 0;float:left}.imgcredit{font-style:italic;font-size:smaller;display:block}@media only screen and (max-width:640px){body .container{margin-left:0}.menu{width:16ex;float:left}body .menu{padding-left:.6ex;margin:1px 1px}.menulist li{height:1.4em;font-size:1.1em}.menulist a,.menulist div{height:1.4em;padding:0 0 0 .2ex}.menulist a{background:linear-gradient(to right,#95a08c 0,rgb(255 255 255 / 0) 100%)}.menulist a:hover{padding-right:1ex;background:linear-gradient(to right,#32491f 0,rgb(244 246 241 / 0) 100%)}.menulist div{padding-right:1ex;background:linear-gradient(to right,#32491f 0,rgb(244 246 241 / 0) 100%)}.main{width:99%}.cos{margin-right:.4ex}html>body .cos{margin-left:.5ex}}body{background-color:#f4f4f3;color:#2d261a}#hdr01{display:none}a:link{text-decoration:none;color:#045dca;cursor:pointer}a:visited{text-decoration:none;color:#1f42ab}a:active{text-decoration:underline;color:#c10300}a:hover{text-decoration:underline;color:#8e3a2d}.menulist div{color:#fdffd3}.menulist a{color:#fffef0}.menulist a:hover{color:#fdffd3}.footnote{border-top:0;padding:.3em 0 .5em 0;background:url(imag/footerbg.png) repeat-x}.footnote a:link,.footnote a:visited{text-decoration:underline}.obsrv{font-size:smaller}table .yesno{text-align:center}.normaltbl tr:nth-child(even),tr.evenrow{background-color:#f6f5e5}.normaltbl tr:nth-child(odd),tr.oddrow{background-color:#eeebd8}table.normaltbl tr:first-child,tr.hdrow{background-color:#e9e9c5}

diff --git a/common.css b/common.css
@@ -202,7 +202,7 @@ div.tema
 
 div.subtema
 {
-	margin: 1em 0 2em 0;
+	margin: 1.8em 0;
 }
 
 div.seccion
